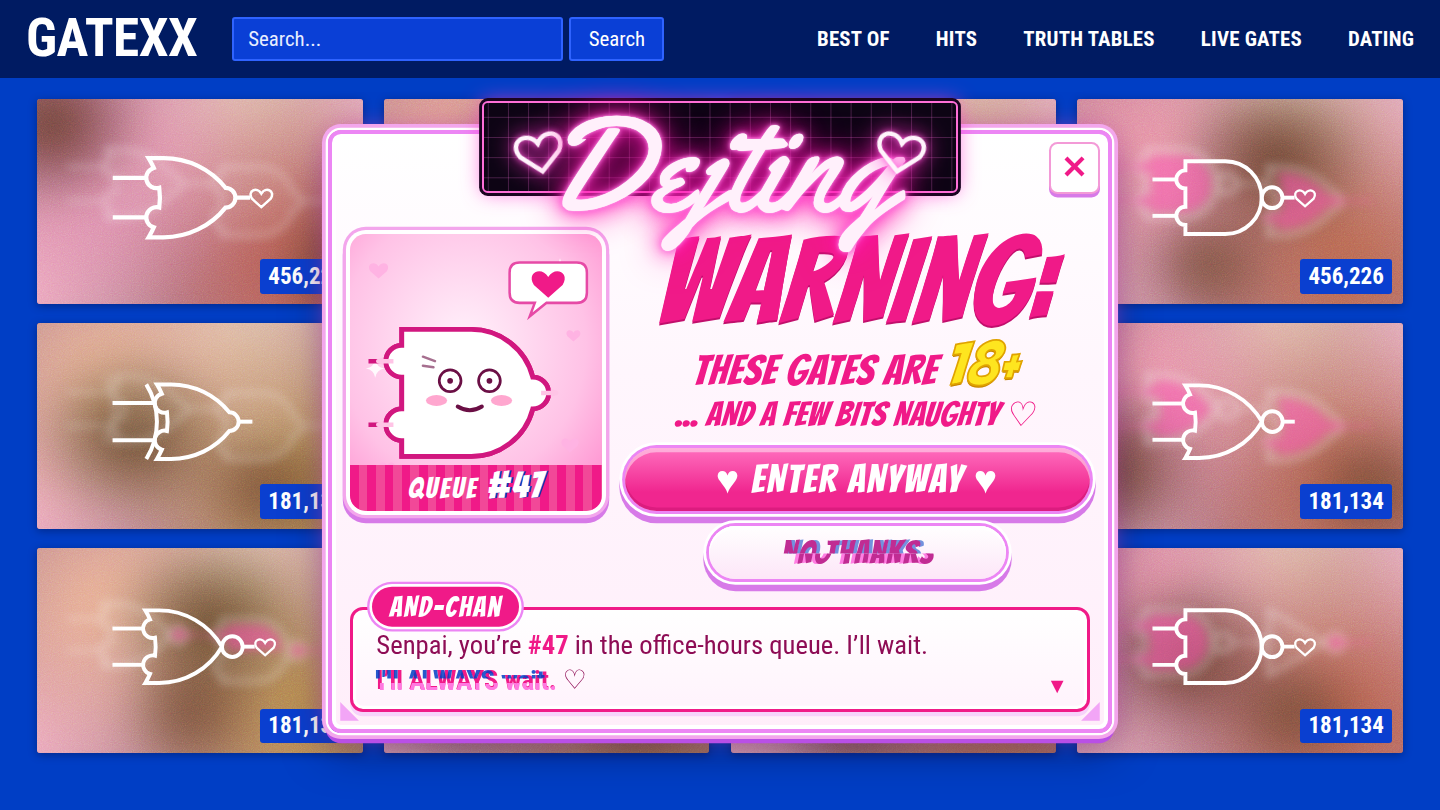
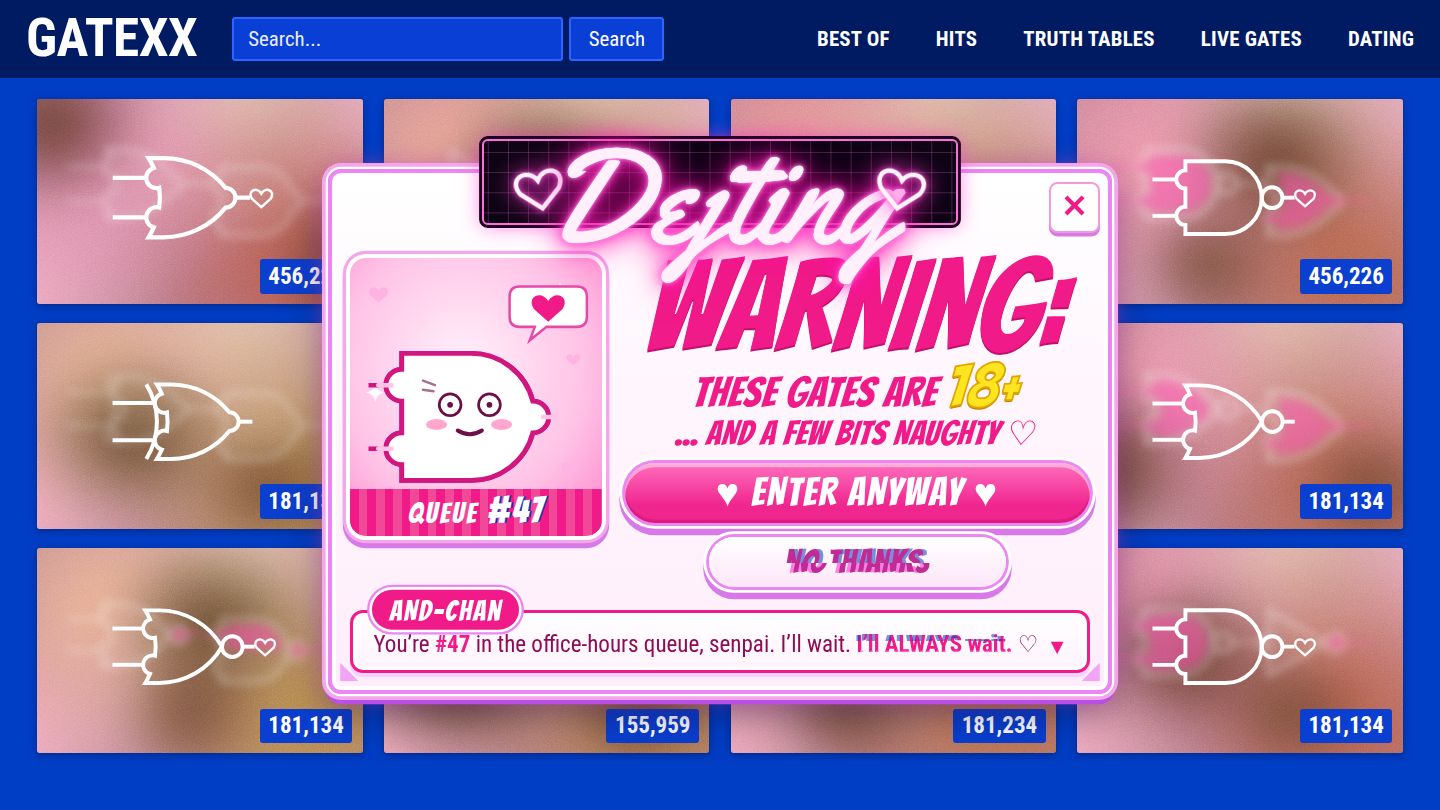
pit4/r1-3 f3: fit modal to .69H, WARNING cap .12, one-line textbox; measure.py
Claude-Session: https://claude.ai/code/session_01MbPdze8rChHd7yWMKqzLQw

Changed region(s): [[0.2188, 0.0926, 0.7812, 0.9568]]

diff --git a/src/date/f3/gate.css b/src/date/f3/gate.css
@@ -80,7 +80,7 @@ a { color: inherit; }
 .cn.br { right: calc(var(--u) * .6); bottom: calc(var(--u) * .6); clip-path: polygon(100% 0, 0 100%, 100% 100%); }
 
 /* ---------- neon sign plate (f762be2f tube style) ---------- */
-.plate { position: relative; z-index: 2; width: calc(var(--u) * 33); height: calc(var(--u) * 6.4); margin: calc(var(--u) * -2.3) auto calc(var(--u) * 2.2);
+.plate { position: relative; z-index: 2; width: calc(var(--u) * 33); height: calc(var(--u) * 6); margin: calc(var(--u) * -2.4) auto calc(var(--u) * 1.7);
   display: flex; justify-content: center; align-items: flex-end;
   background: #0d0414; background-image: linear-gradient(rgba(255, 120, 230, .24) 1px, transparent 1px), linear-gradient(90deg, rgba(255, 120, 230, .24) 1px, transparent 1px);
   background-size: calc(var(--u) * 1.4) calc(var(--u) * 1.4); background-position: center;
@@ -123,35 +123,35 @@ a { color: inherit; }
 .meter.ticket b { display: inline; color: #fff; text-shadow: calc(var(--u) * .12) 0 var(--bg); }
 
 .copy { padding-top: calc(var(--u) * .2); }
-.warn { margin: 0; font: 400 calc(var(--u) * 8.3)/.9 'Bangers', cursive; letter-spacing: .005em; color: var(--hot); transform: skewX(-7deg);
+.warn { margin: 0; font: 400 calc(var(--u) * 8.8)/.84 'Bangers', cursive; letter-spacing: .005em; color: var(--hot); transform: skewX(-7deg);
   text-shadow: 0 calc(var(--u) * .12) 0 #c10f6c; }
-.sub { margin: calc(var(--u) * .3) 0 0; font: 400 calc(var(--u) * 2.9)/1.05 'Bangers', cursive; letter-spacing: .02em; color: var(--hot); transform: skewX(-7deg); }
+.sub { margin: calc(var(--u) * .2) 0 0; font: 400 calc(var(--u) * 2.9)/1 'Bangers', cursive; letter-spacing: .02em; color: var(--hot); transform: skewX(-7deg); }
 .sub.n { font-size: calc(var(--u) * 2.35); }
 .y { font-style: normal; color: var(--yellow); -webkit-text-stroke: calc(var(--u) * .12) #e0a300; font-size: 1.45em; line-height: .8;
   text-shadow: 0 calc(var(--u) * .15) 0 #c98600; }
 
 /* choice menu = the kit's pill buttons: white ring, lilac rim, darker bottom bevel, white inner highlight */
-.choices { display: flex; flex-direction: column; align-items: center; gap: calc(var(--u) * 1.05); margin-top: calc(var(--u) * 1.1); }
+.choices { display: flex; flex-direction: column; align-items: center; gap: calc(var(--u) * .95); margin-top: calc(var(--u) * .9); }
 .btn { display: block; position: relative; text-decoration: none; font: 400 calc(var(--u) * 2.75)/1 'Bangers', cursive; letter-spacing: .05em;
-  padding: calc(var(--u) * .8) calc(var(--u) * 1); border-radius: 999px; transition: transform .12s, filter .12s; }
+  padding: calc(var(--u) * .7) calc(var(--u) * 1); border-radius: 999px; transition: transform .12s, filter .12s; }
 .btn.hot { width: 100%; background: linear-gradient(#ff6fbe, #f0268f 70%); color: #fff;
   box-shadow: inset 0 calc(var(--u) * .3) 0 rgba(255, 255, 255, .45), inset 0 calc(var(--u) * -.25) 0 rgba(160, 0, 80, .25),
     0 0 0 calc(var(--u) * .2) var(--rim), 0 0 0 calc(var(--u) * .4) #fff, 0 calc(var(--u) * .45) 0 calc(var(--u) * .4) var(--rim-2); }
-.btn.soft { width: 64%; font-size: calc(var(--u) * 2.3); padding: calc(var(--u) * .7) calc(var(--u) * 1); background: linear-gradient(#fff, #fde6f8); color: #c02c93;
+.btn.soft { width: 64%; font-size: calc(var(--u) * 2.3); padding: calc(var(--u) * .6) calc(var(--u) * 1); background: linear-gradient(#fff, #fde6f8); color: #c02c93;
   box-shadow: inset 0 calc(var(--u) * .25) 0 #fff, 0 0 0 calc(var(--u) * .2) var(--rim), 0 0 0 calc(var(--u) * .4) #fff, 0 calc(var(--u) * .45) 0 calc(var(--u) * .4) var(--rim-2); }
 .btn:hover { transform: translateY(-2px) scale(1.02); filter: brightness(1.05); }
 .btn:focus-visible, .close:focus-visible { outline: 3px dashed var(--hot); outline-offset: 5px; }
 
 /* ---------- ADV textbox (visual-novel dialogue window) ---------- */
-.adv { position: relative; margin-top: calc(var(--u) * 1.9); text-align: left; background: linear-gradient(#fff, #fff3fc);
+.adv { position: relative; margin-top: calc(var(--u) * 1.6); text-align: left; background: linear-gradient(#fff, #fff3fc);
   border: calc(var(--u) * .22) solid var(--rim); border-radius: calc(var(--u) * .9);
   box-shadow: inset 0 0 0 calc(var(--u) * .22) #fff, 0 calc(var(--u) * .3) 0 var(--lilac);
-  padding: calc(var(--u) * 1.3) calc(var(--u) * 3.2) calc(var(--u) * .8) calc(var(--u) * 1.6); }
+  padding: calc(var(--u) * 1.15) calc(var(--u) * 2.6) calc(var(--u) * .7) calc(var(--u) * 1.4); }
 .nameplate { position: absolute; left: calc(var(--u) * 1.3); top: 0; transform: translateY(-58%);
   font: 400 calc(var(--u) * 2)/1 'Bangers', cursive; letter-spacing: .06em; color: #fff; background: var(--hot);
   padding: calc(var(--u) * .45) calc(var(--u) * 1.2) calc(var(--u) * .35); border-radius: 999px;
   box-shadow: 0 0 0 calc(var(--u) * .18) #fff, 0 0 0 calc(var(--u) * .34) var(--rim); }
-.adv p { margin: 0; font: 400 max(12px, calc(var(--u) * 1.85))/1.3 'Roboto Condensed', sans-serif; color: #b0126a; }
+.adv p { margin: 0; font: 400 max(12px, calc(var(--u) * 1.6))/1.3 'Roboto Condensed', sans-serif; color: #b0126a; }
 .adv b { font-weight: 700; color: var(--hot); }
 .cursor { position: absolute; right: calc(var(--u) * 1.3); bottom: calc(var(--u) * .7); font-style: normal; color: var(--hot); font-size: calc(var(--u) * 1.5); }
 .date:not(.still) .cursor { animation: bob .9s ease-in-out infinite; }

diff --git a/src/date/f3/gate.jsx b/src/date/f3/gate.jsx
@@ -96,7 +96,7 @@ function Textbox({ yan }) {
     <div className={yan ? 'adv yan' : 'adv'} role="status">
       <span className="nameplate">AND-chan</span>
       {yan
-        ? <p>Senpai, you&rsquo;re <b>#47</b> in the office-hours queue. I&rsquo;ll wait. <span className="glitch" data-t="I'll ALWAYS wait.">I&rsquo;ll ALWAYS wait.</span> &#9825;</p>
+        ? <p>You&rsquo;re <b>#47</b> in the office-hours queue, senpai. I&rsquo;ll wait. <span className="glitch" data-t="I'll ALWAYS wait.">I&rsquo;ll ALWAYS wait.</span> &#9825;</p>
         : <p>By entering, you confirm you're 18+ and know what a truth table is. &#9825;</p>}
       <i className="cursor" aria-hidden="true">&#9660;</i>
     </div>

diff --git a/research/pit4/pit4-r1-3/measure.py b/research/pit4/pit4-r1-3/measure.py
@@ -1,0 +1,51 @@
+# measure.py: Pillow numbers for the f3 gate vs the rubric's target table (ratios of the viewport).
+# usage: python3 measure.py shots/gate-1440.png [modal_left top right bottom] -> prints a JSON-ish table
+import sys, json
+from PIL import Image
+
+def med(px):
+    px = sorted(px, key=lambda c: sum(c))
+    return px[len(px) // 2] if px else None
+
+def hexc(c): return '#%02x%02x%02x' % c[:3] if c else None
+
+def measure(path, dom=None):
+    im = Image.open(path).convert('RGB'); W, H = im.size; p = im.load()
+    out = {'size': [W, H]}
+    # top bar: median of the bar row band between the search button and the nav (no text)
+    out['bar'] = hexc(med([p[x, y] for x in range(int(W * .50), int(W * .54)) for y in range(4, int(H * .02))]))
+    # bar height: first row from the top whose colour leaves the bar colour at x=4
+    b = p[4, 4]; y = 0
+    while y < H and sum(abs(a - c) for a, c in zip(p[4, y], b)) < 30: y += 1
+    out['bar_h'] = round(y / H, 3)
+    # grid bg: left gutter, mid height
+    out['grid_bg'] = hexc(med([p[x, y] for x in range(2, int(W * .018)) for y in range(int(H * .4), int(H * .6))]))
+    # headline pink + WARNING cap height: hot-pink ink rows inside the warn box
+    if dom:
+        l, t, r, bt = dom
+        pink = [(x, y) for x in range(l, r) for y in range(t, bt) if (lambda c: c[0] > 200 and c[1] < 90 and 90 < c[2] < 190)(p[x, y])]
+        ys = sorted(y for _, y in pink)
+        # robust extent: rows holding >= 1.5% of the box width in pink
+        rows = {}
+        for _, yy in pink: rows[yy] = rows.get(yy, 0) + 1
+        good = [yy for yy, n in rows.items() if n >= (r - l) * .015]
+        out['warn_cap'] = round((max(good) - min(good) + 1) / H, 3) if good else None
+        out['headline'] = hexc(med([p[x, y] for x, y in pink]))
+    # grid reach: lowest tile pixel in the left column (non-blue)
+    x = int(W * .1); y = H - 1
+    while y > 0 and (lambda c: c[2] > 150 and c[0] < 60)(p[x, y]): y -= 1
+    out['grid_bottom'] = round(y / H, 3)
+    # left/right luminance balance
+    def lum(x0, x1):
+        s = n = 0
+        for xx in range(x0, x1, 4):
+            for yy in range(0, H, 4):
+                c = p[xx, yy]; s += .2126 * c[0] + .7152 * c[1] + .0722 * c[2]; n += 1
+        return s / n
+    L, R = lum(0, W // 2), lum(W // 2, W)
+    out['lum_lr'] = [round(L, 1), round(R, 1), round(abs(L - R) / max(L, R) * 100, 1)]
+    return out
+
+if __name__ == '__main__':
+    dom = [int(v) for v in sys.argv[2:6]] if len(sys.argv) > 5 else None
+    print(json.dumps(measure(sys.argv[1], dom)))
